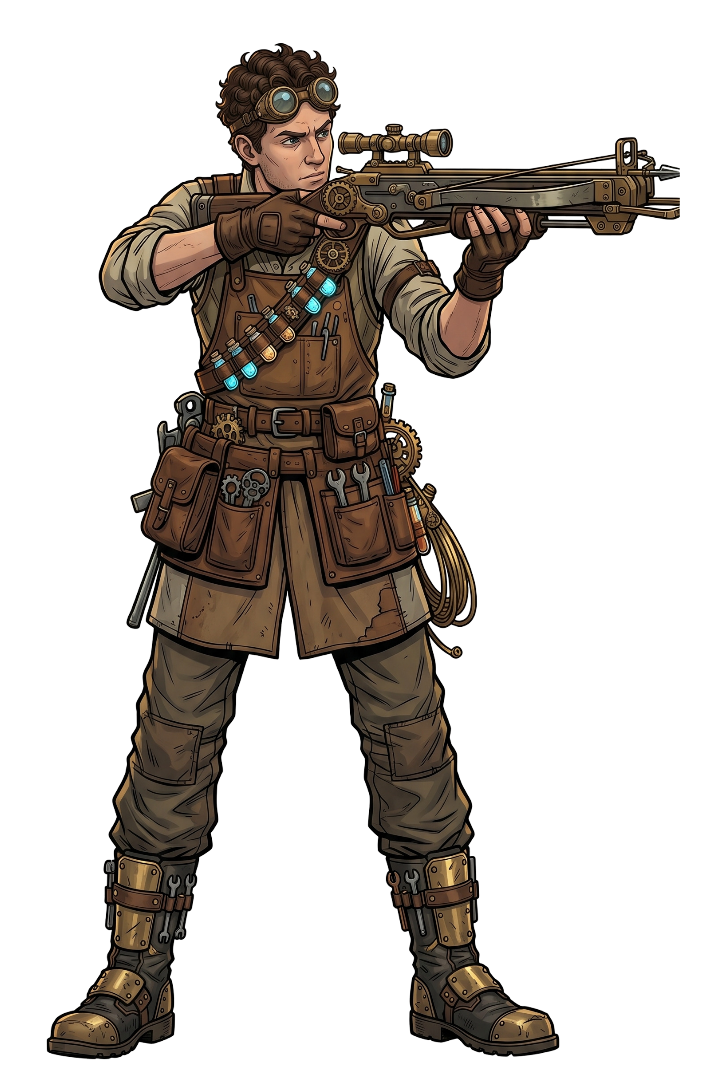
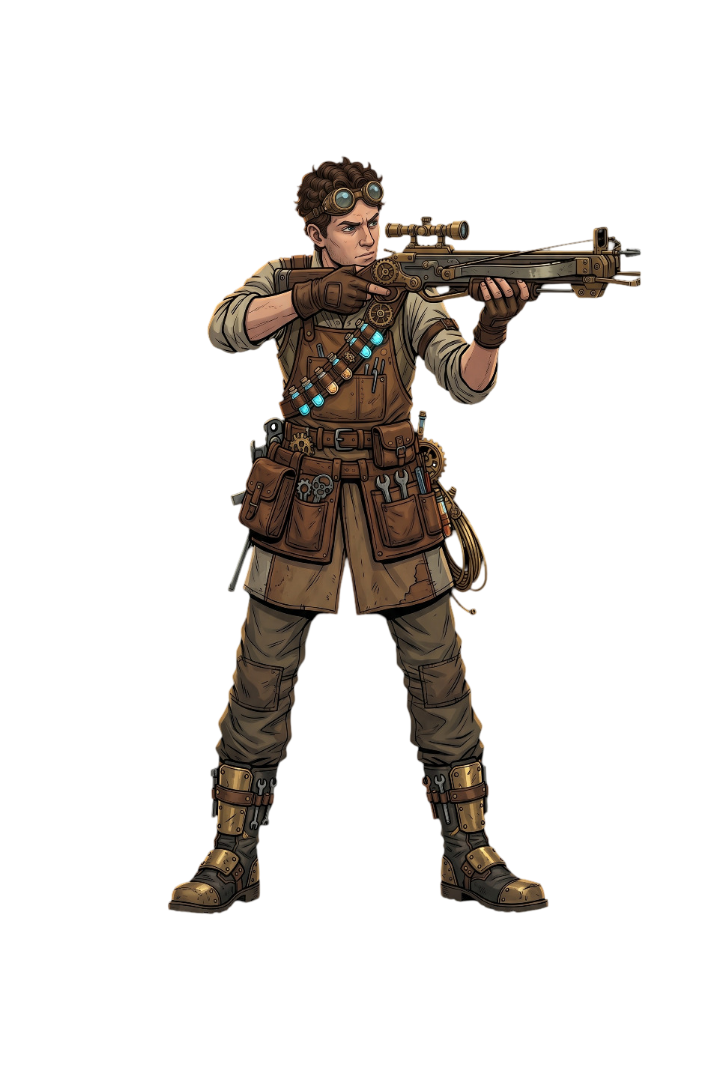
update illustration + add  team service

diff --git a/workspaces/apps/game/src/services/character.service.ts b/workspaces/apps/game/src/services/character.service.ts
@@ -1,18 +1,18 @@
 import { api } from "./api"
-import type { CharacterName, EntityStats } from "@reflexer/engine"
+import type { EntityStats } from "@reflexer/engine"
 
 export type Character = {
-    _id:       string
-    userId:    string
-    name:      string
-    baseStats: EntityStats;
-    characterName:  CharacterName
-    createdAt: string
-    updatedAt: string
+    _id:           string
+    slug:          string // pour le nommage dans asset (img)
+    characterName: string
+    description:   string
+    baseStats:     EntityStats
+    imageUrl:      string
+    createdAt:     string
+    updatedAt:     string
 }
 
 export const CharacterService = {
     getAll: () => api.get<Character[]>('/characters'),
-
     getById: (id: string) => api.get<Character>(`/characters/${id}`)
 }

diff --git a/workspaces/apps/game/src/services/team.service.ts b/workspaces/apps/game/src/services/team.service.ts
@@ -1,0 +1,18 @@
+import { api } from "./api"
+import type { Character } from "./character.service"
+
+export type Team = {
+    _id:          string
+    userId:       string
+    characterIds: Character[]
+    createdAt:    string
+    updatedAt:    string
+}
+
+export const TeamService = {
+    getMine: async (): Promise<Team | null> => 
+        api.get<Team | null>('/teams/me'),
+
+    save: (characterIds: [string, string]) =>
+        api.post<Team>('/teams/me', { characterIds })
+}